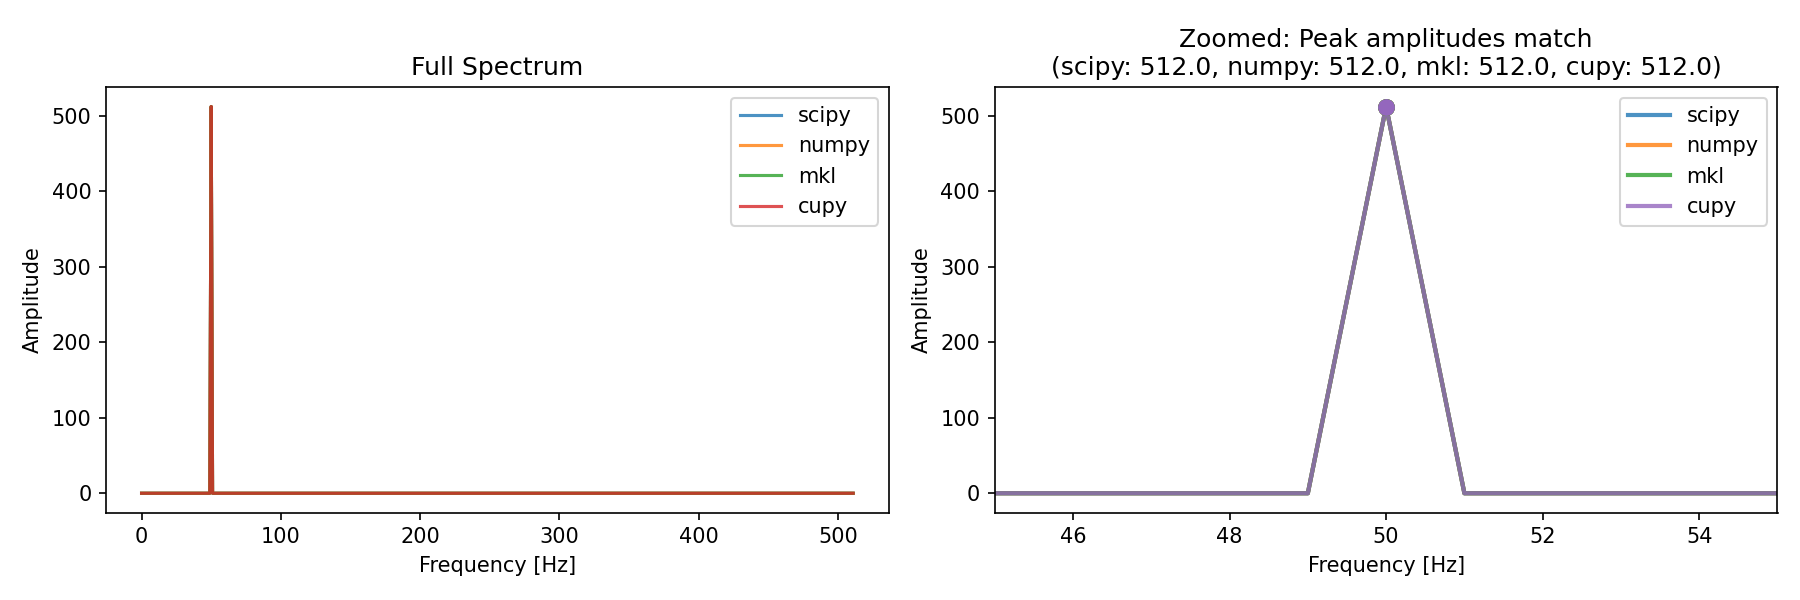
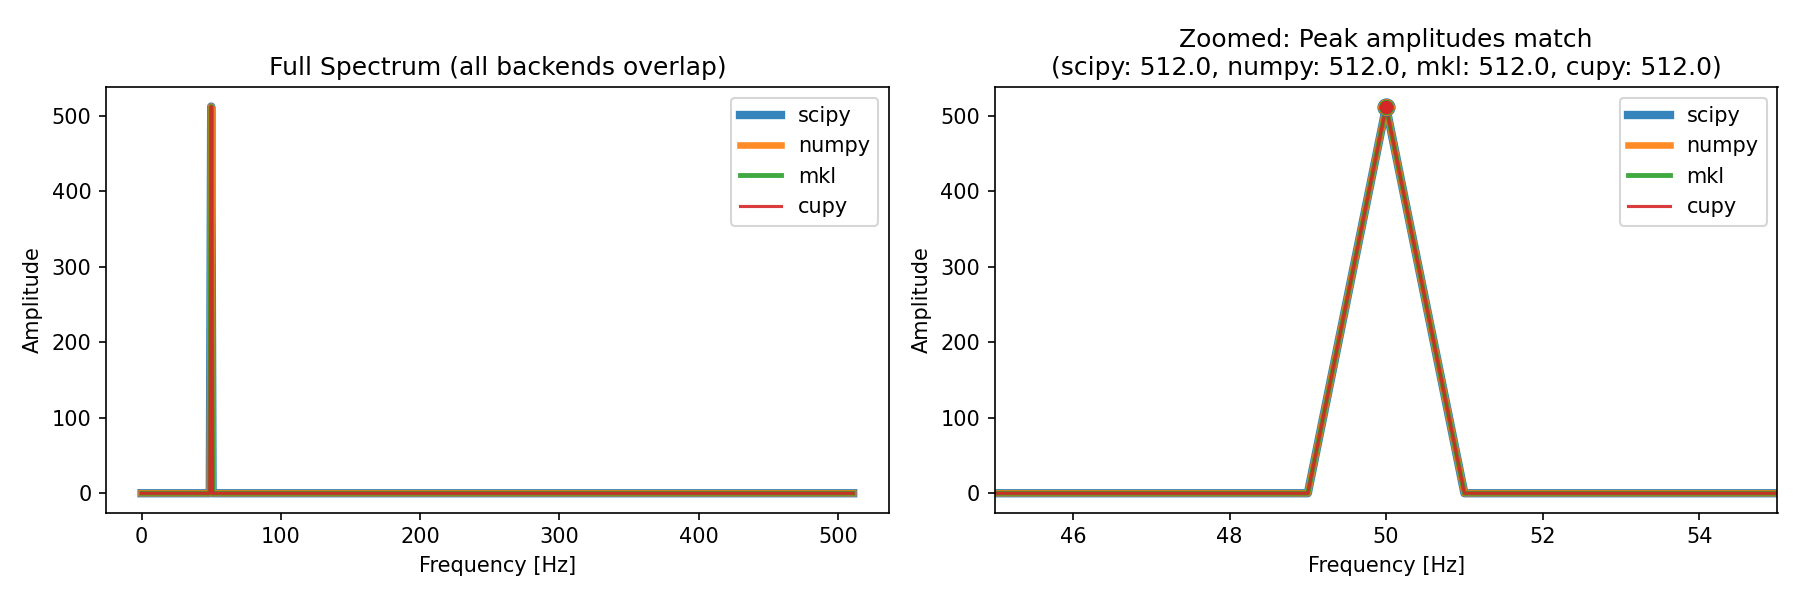
fft/1_checks: use get_available_backends() and show overlap with line widths
- Only plot backends that are actually available on the system
- Print available backends at start for clarity
- Use decreasing line widths (thick→thin) to show all curves collapse
- Markers also decrease in size to show overlap at peak

diff --git a/fft/1_checks.py b/fft/1_checks.py
@@ -32,7 +32,7 @@ import os
 project_root = os.path.abspath(os.path.join(os.path.dirname(__file__), '..'))
 if project_root not in sys.path:
     sys.path.insert(0, project_root)
-from fft_backends import get_fft_func, get_fft_backend_names
+from fft_backends import get_fft_func, get_available_backends
 
 # ---- Configuration ----
 FS = 1024
@@ -65,9 +65,11 @@ def test_fft_normalization(x, N, freq=FREQ, amplitude=AMPLITUDE, fs=FS):
     - For a sine wave of amplitude A and length N, the FFT should have a peak of (A*N/2) at the sine frequency (for unnormalized FFTs).
     - This test confirms if the backend matches this convention, or applies a different normalization.
     """
-    print(f"\nTesting FFT normalization for a {freq} Hz sine wave, {N} samples, amplitude={amplitude}\n")
+    backends = get_available_backends()
+    print(f"\nAvailable backends: {backends}")
+    print(f"Testing FFT normalization for a {freq} Hz sine wave, {N} samples, amplitude={amplitude}\n")
     results = {}
-    for backend in get_fft_backend_names():
+    for backend in get_available_backends():
         try:
             fft_func = get_fft_func(backend)
             X = fft_func(x)
@@ -89,41 +91,41 @@ def test_fft_normalization(x, N, freq=FREQ, amplitude=AMPLITUDE, fs=FS):
     # Collect results for annotation
     peak_amplitudes = {}
 
-    # Full spectrum (left)
+    # Full spectrum (left) - thicker line first, thinner on top to show overlap
     ax1 = axes[0]
-    for backend in get_fft_backend_names():
-        try:
-            fft_func = get_fft_func(backend)
-            X = fft_func(x)
-            freqs = np.fft.fftfreq(N, 1/fs)
-            amp = np.abs(X[:N//2])
-            ax1.plot(freqs[:N//2], amp, label=backend, alpha=0.8)
-            # Store peak amplitude
-            idx = np.argmin(np.abs(freqs[:N//2] - freq))
-            peak_amplitudes[backend] = amp[idx]
-        except Exception:
-            continue
+    backends = get_available_backends()
+    colors = plt.cm.tab10.colors
+    n_backends = len(backends)
+    for i, backend in enumerate(backends):
+        fft_func = get_fft_func(backend)
+        X = fft_func(x)
+        freqs = np.fft.fftfreq(N, 1/fs)
+        amp = np.abs(X[:N//2])
+        # Decreasing linewidth: first is thickest, last is thinnest
+        lw = 4 - (i * 2.5 / max(n_backends - 1, 1))
+        ax1.plot(freqs[:N//2], amp, label=backend, alpha=0.9, linewidth=lw, color=colors[i % len(colors)])
+        # Store peak amplitude
+        idx = np.argmin(np.abs(freqs[:N//2] - freq))
+        peak_amplitudes[backend] = amp[idx]
     ax1.set_xlabel('Frequency [Hz]')
     ax1.set_ylabel('Amplitude')
-    ax1.set_title('Full Spectrum')
+    ax1.set_title('Full Spectrum (all backends overlap)')
     ax1.legend()
 
     # Zoomed view around peak (right) - show amplitudes match
     ax2 = axes[1]
     zoom_width = 5  # Hz around peak
-    colors = plt.cm.tab10.colors
-    for i, backend in enumerate(get_fft_backend_names()):
-        try:
-            fft_func = get_fft_func(backend)
-            X = fft_func(x)
-            freqs = np.fft.fftfreq(N, 1/fs)
-            amp = np.abs(X[:N//2])
-            ax2.plot(freqs[:N//2], amp, label=backend, alpha=0.8, linewidth=2, color=colors[i % len(colors)])
-            # Add marker at peak
-            idx = np.argmin(np.abs(freqs[:N//2] - freq))
-            ax2.scatter([freqs[idx]], [amp[idx]], s=50, color=colors[i % len(colors)], zorder=5)
-        except Exception:
-            continue
+    for i, backend in enumerate(backends):
+        fft_func = get_fft_func(backend)
+        X = fft_func(x)
+        freqs = np.fft.fftfreq(N, 1/fs)
+        amp = np.abs(X[:N//2])
+        # Decreasing linewidth: first is thickest, last is thinnest
+        lw = 4 - (i * 2.5 / max(n_backends - 1, 1))
+        ax2.plot(freqs[:N//2], amp, label=backend, alpha=0.9, linewidth=lw, color=colors[i % len(colors)])
+        # Add marker at peak
+        idx = np.argmin(np.abs(freqs[:N//2] - freq))
+        ax2.scatter([freqs[idx]], [amp[idx]], s=60 - i*10, color=colors[i % len(colors)], zorder=5)
     ax2.set_xlim(freq - zoom_width, freq + zoom_width)
     ax2.set_xlabel('Frequency [Hz]')
     ax2.set_ylabel('Amplitude')
@@ -150,7 +152,7 @@ def test_fft_inverse_consistency(x, N):
     - This checks both the correctness of the implementation and the normalization convention (e.g., unnormalized FFTs are usually paired with IFFTs that divide by N).
     """
     print("\nTesting inverse FFT consistency for each backend\n")
-    for backend in get_fft_backend_names():
+    for backend in get_available_backends():
         try:
             # Try to import the corresponding ifft
             if backend == 'scipy':
@@ -215,7 +217,7 @@ def test_fft_parseval(x, N):
     """
     print("\nTesting Parseval's theorem for each backend\n")
     E_time = np.sum(np.abs(x) ** 2)
-    for backend in get_fft_backend_names():
+    for backend in get_available_backends():
         try:
             fft_func = get_fft_func(backend)
             X = fft_func(x)
